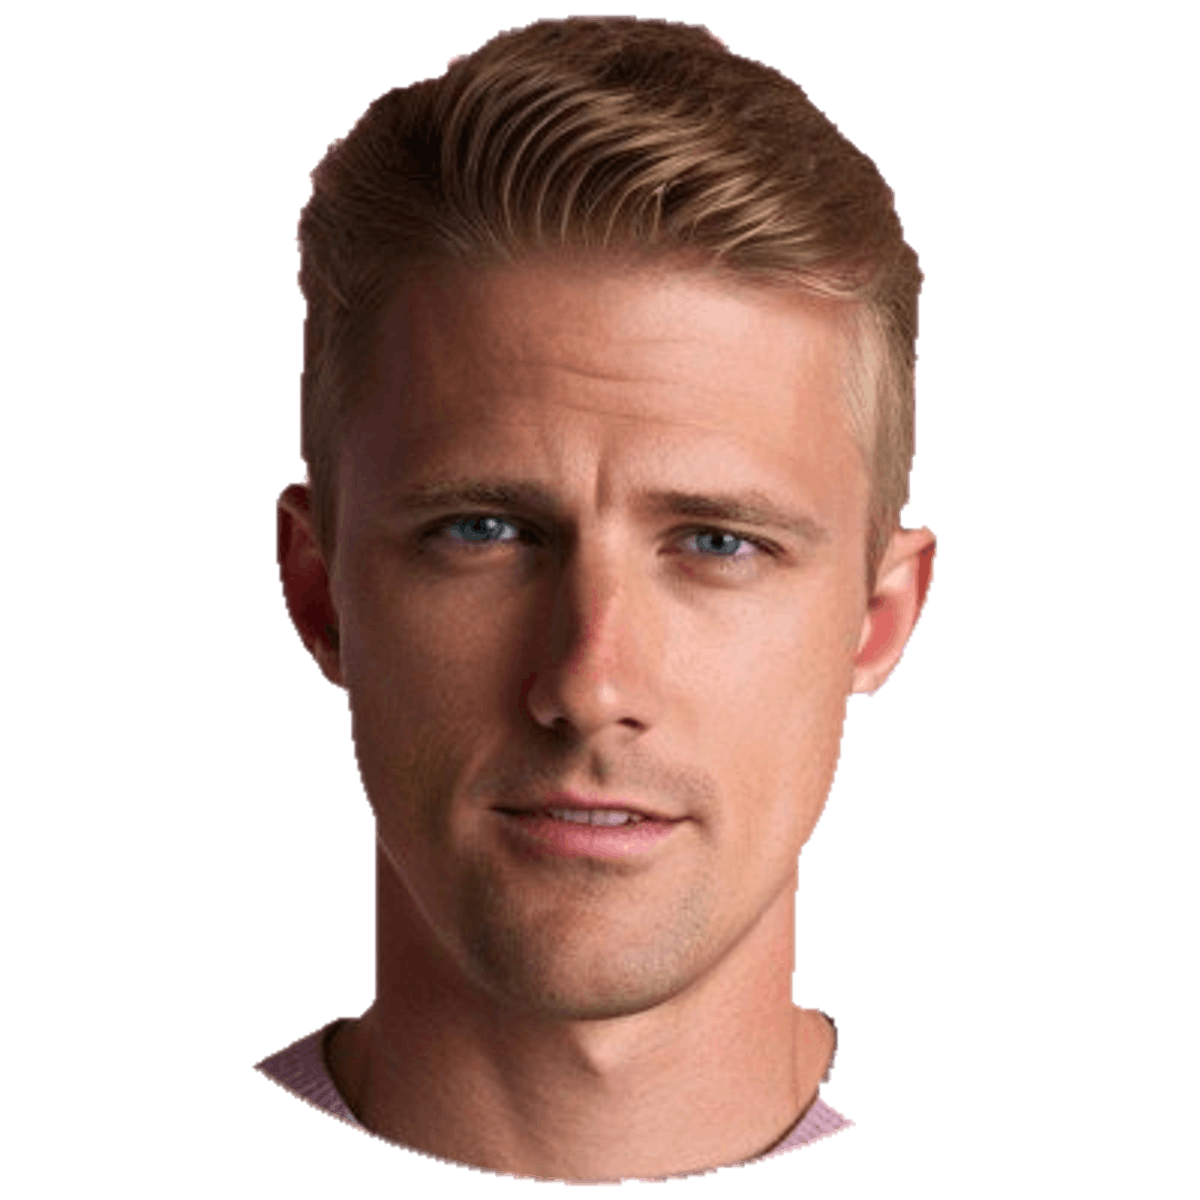
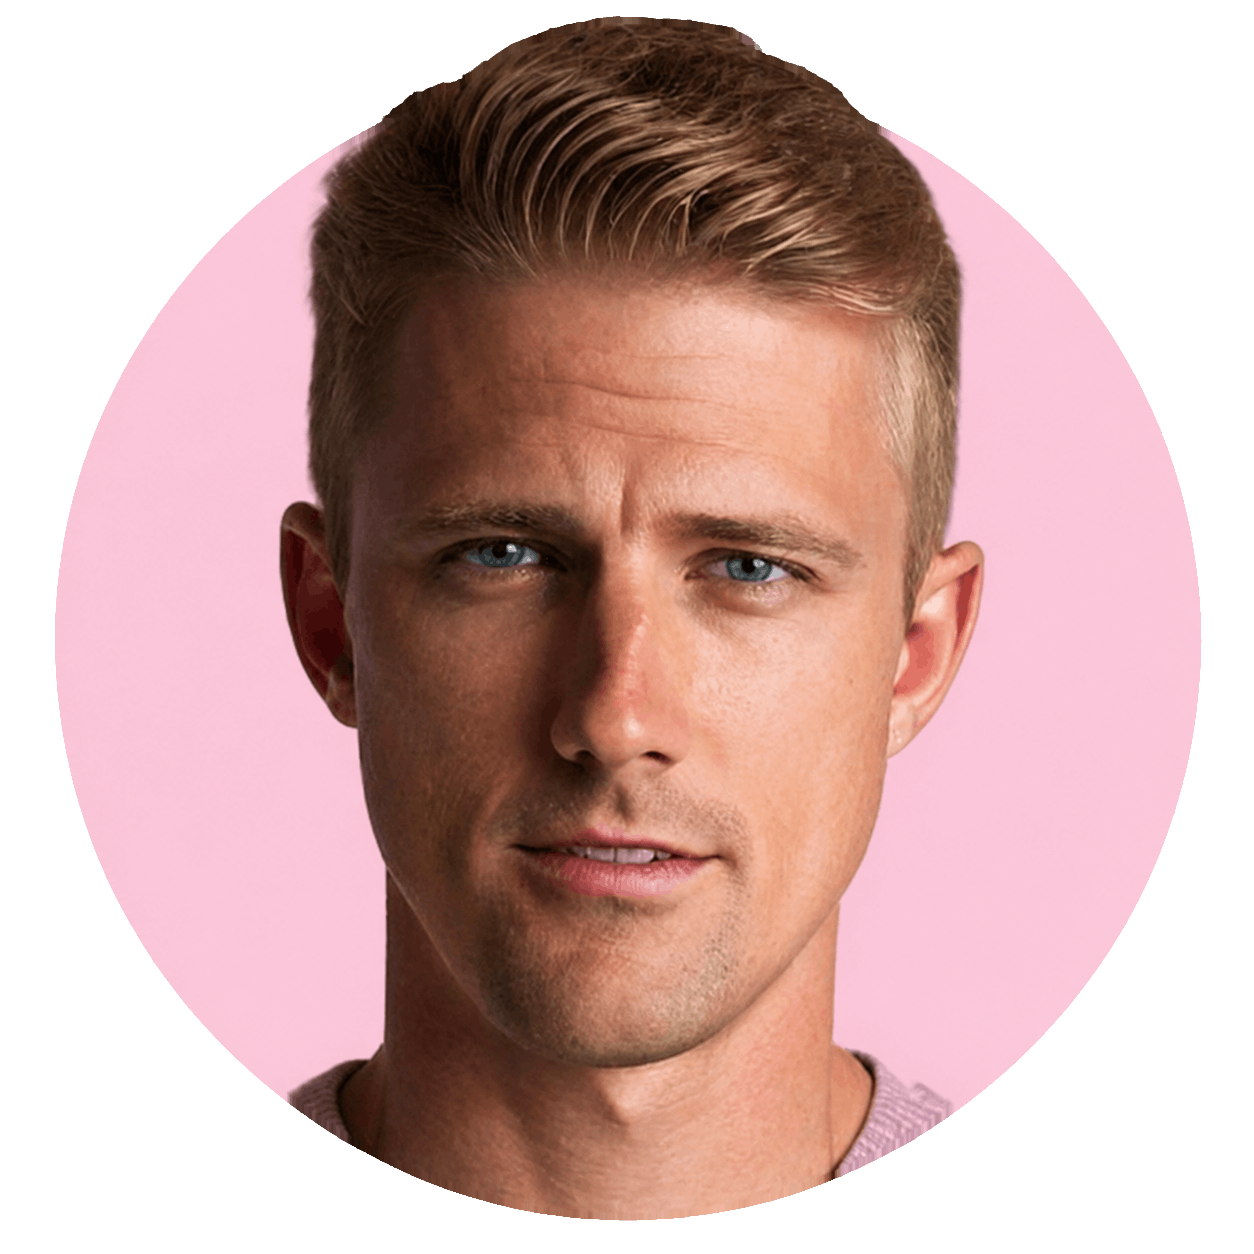
Use preferred cleaned headshot preview

diff --git a/index.html b/index.html
@@ -13,12 +13,12 @@
   <meta property="og:url" content="https://mikecubberly.com/">
   <meta property="og:title" content="Mike Cubberly | Founder, Operator, GTM Builder">
   <meta property="og:description" content="I build the systems that turn market signal into momentum.">
-  <meta property="og:image" content="https://mikecubberly.com/mike-cubberly-clean.png">
+  <meta property="og:image" content="https://mikecubberly.com/mike-cubberly-clean.png?v=3">
   <meta property="og:site_name" content="Mike Cubberly">
   <meta name="twitter:card" content="summary_large_image">
   <meta name="twitter:title" content="Mike Cubberly | Founder, Operator, GTM Builder">
   <meta name="twitter:description" content="I build the systems that turn market signal into momentum.">
-  <meta name="twitter:image" content="https://mikecubberly.com/mike-cubberly-clean.png">
+  <meta name="twitter:image" content="https://mikecubberly.com/mike-cubberly-clean.png?v=3">
   <link rel="stylesheet" href="/styles.css?v=2">
   <script type="application/ld+json">
   {
@@ -29,7 +29,7 @@
         "@id": "https://mikecubberly.com/#person",
         "name": "Mike Cubberly",
         "url": "https://mikecubberly.com/",
-        "image": "https://mikecubberly.com/mike-cubberly-clean.png",
+        "image": "https://mikecubberly.com/mike-cubberly-clean.png?v=3",
         "jobTitle": "Founder and GTM Operator",
         "description": "Chicago-based founder and GTM operator building outbound systems, revenue infrastructure, and companies.",
         "worksFor": [
@@ -93,7 +93,7 @@
 
       <div class="hero-visual" role="img" aria-label="Portrait of Mike Cubberly">
         <div class="portrait-frame">
-          <img src="/mike-cubberly-clean.png" alt="Mike Cubberly" width="1200" height="1200">
+          <img src="/mike-cubberly-clean.png?v=3" alt="Mike Cubberly" width="1254" height="1254">
         </div>
         <p class="portrait-caption">Built in Chicago</p>
         <span class="hero-index" aria-hidden="true">01</span>

diff --git a/press.html b/press.html
@@ -11,7 +11,7 @@
   <link rel="canonical" href="https://mikecubberly.com/press.html">
   <meta property="og:title" content="Press and Media | Mike Cubberly">
   <meta property="og:description" content="Biography, quick facts, speaking topics, and media contact information.">
-  <meta property="og:image" content="https://mikecubberly.com/mike-cubberly-clean.png">
+  <meta property="og:image" content="https://mikecubberly.com/mike-cubberly-clean.png?v=3">
   <link rel="stylesheet" href="/styles.css?v=2">
 </head>
 <body>

diff --git a/about.html b/about.html
@@ -12,7 +12,7 @@
   <meta property="og:type" content="profile">
   <meta property="og:title" content="About Mike Cubberly">
   <meta property="og:description" content="Founder, operator, and GTM builder based in Chicago.">
-  <meta property="og:image" content="https://mikecubberly.com/mike-cubberly-clean.png">
+  <meta property="og:image" content="https://mikecubberly.com/mike-cubberly-clean.png?v=3">
   <link rel="stylesheet" href="/styles.css?v=2">
 </head>
 <body>
